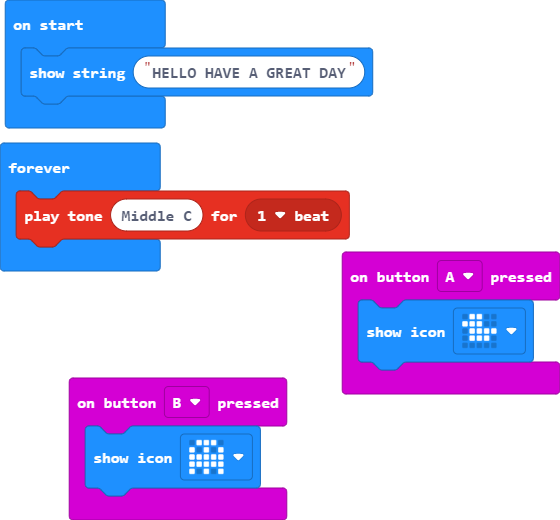
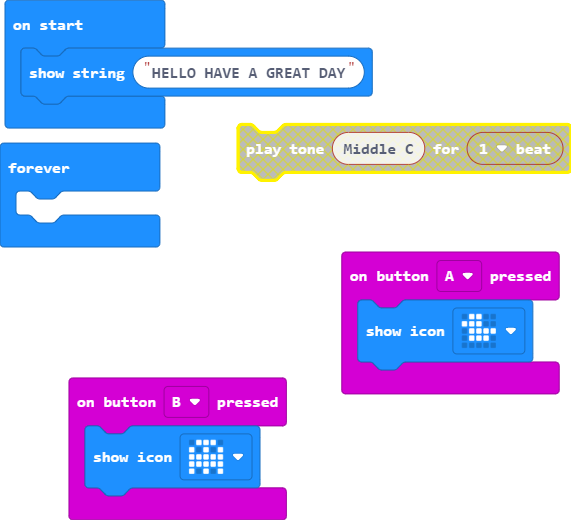
Update main.blocks, main.ts

diff --git a/main.ts b/main.ts
@@ -6,5 +6,5 @@ input.onButtonPressed(Button.B, function () {
 })
 basic.showString("HELLO HAVE A GREAT DAY")
 basic.forever(function () {
-    music.playTone(262, music.beat(BeatFraction.Whole))
+	
 })
